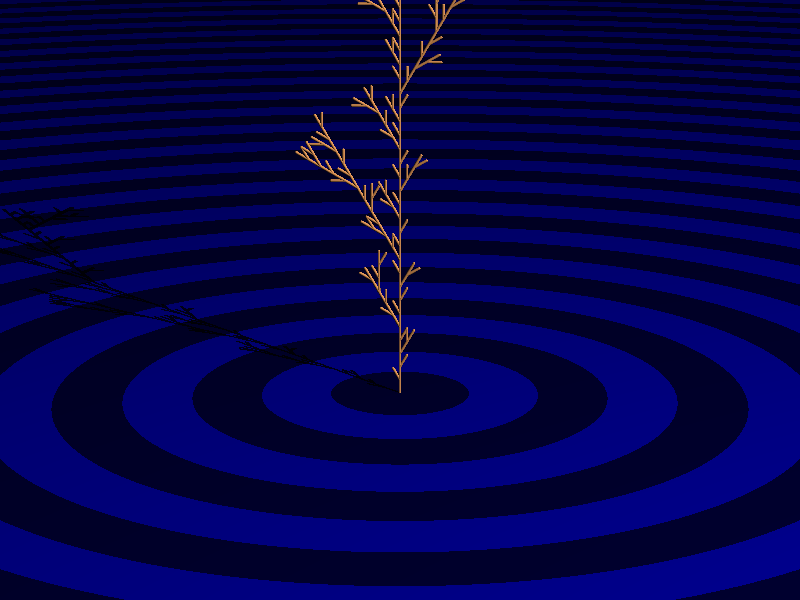
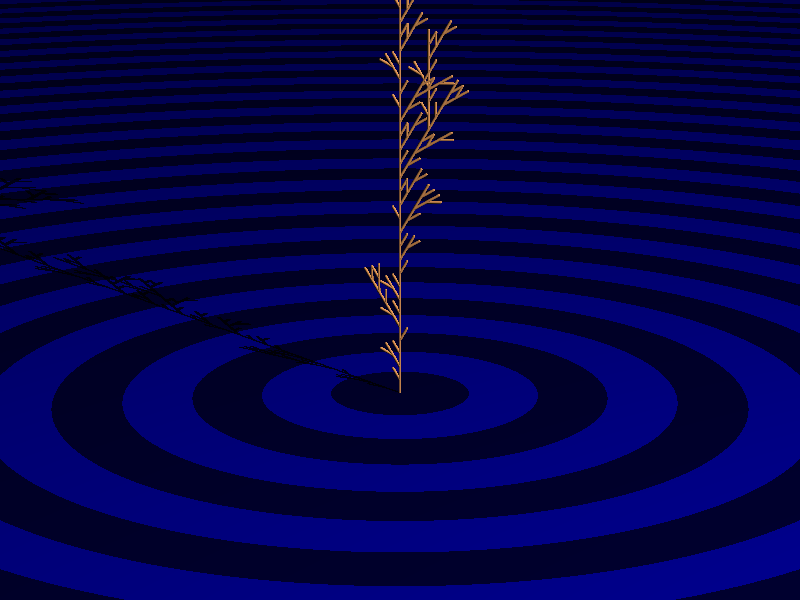
Make stochastic L-systems reproducible, and fix per-context probabilities
Vetting pass over the L-system subsystem.  The engine itself holds up -- a
faithful Algorithmic Beauty of Plants implementation, parallel rewriting,
branching, branch-aware context sensitivity, stochastic rules, a correct 3D
turtle -- so this is two bug fixes and the tests that were owed.

A stochastic L-system given no seed drew from a shared random source and grew
a different tree every render (axial.igl differed by 244 of 255 between runs).
It now falls back to a fixed default seed and draws from a generator private to
each production run: the rewriting is sequential, so nothing shared is needed,
and a shared one carried its position between runs so a second tree, or a
second render of the same one, drew from where the first left off.  This is the
same trap the noise generator was in.  A scene wanting a different tree names a
seed with "with seed N"; it does not get one by accident.  axial.png is
regenerated to its now-fixed output.

Making Produce a pure function of its inputs meant rewriting the stochastic
test, which had been asserting the old behaviour: the same producer asked twice
giving different answers, which was the bug rather than a feature.

Second, the probability bands that lay a rule's stochastic productions across
[0, 1) were keyed by the variable rather than the whole rule.  One variable can
carry several rules told apart by context, each its own set of productions
summing to 1; keying by the variable ran their totals together and made the
[…]

Changed region(s): [[0.375, 0.0, 0.5938, 0.48], [0.0, 0.3, 0.375, 0.6], [0.4688, 0.54, 0.5312, 0.6]]

diff --git a/Tests/TestLSystemProductions.cs b/Tests/TestLSystemProductions.cs
@@ -34,50 +34,88 @@ public class TestLSystemProductions
         Verify(producer, "F", "F+F", "F+F+F+F");
     }
 
-    [TestMethod]
-    public void TestStochasticProductions()
-    {
-        ProductionRuleSpec spec1 = NewRule("A", "C", 0.33);
-        ProductionRuleSpec spec2 = NewRule("A", "C", 0.33);
-        ProductionRuleSpec spec3 = NewRule("A", "D", 0.34);
-        LSystemProducer producer = new LSystemProducer { Axiom = "A", Seed = 7 }
-            .AddRule(spec1)
-            .AddRule(spec2)
-            .AddRule(spec3);
+    private static LSystemProducer CoinFlip(int? seed) =>
+        new LSystemProducer { Axiom = "AAAAAAAA", Seed = seed }
+            .AddRule(NewRule("A", "C", 0.5))
+            .AddRule(NewRule("A", "D", 0.5));
 
-        Verify(producer, "A", "C", "D");
-        Verify(producer, "A", "D", "C");
-        Verify(producer, "A", "C", "D");
+    [TestMethod]
+    public void TestStochasticProductionsAreReproducibleForASeed()
+    {
+        // Building the same stochastic system twice with the same seed grows the same string --
+        // the property a render relies on.  Produce is a pure function of its inputs: it does not
+        // draw from a sequence that advances between calls, so a single producer asked the same
+        // thing twice answers the same both times.  (It used to draw from a shared, advancing
+        // generator, which is what made repeated renders of one tree differ.)
+        for (int generation = 0; generation <= 4; generation++)
+            Assert.AreEqual(CoinFlip(7).Produce(generation), CoinFlip(7).Produce(generation));
+
+        LSystemProducer producer = CoinFlip(7);
+
+        Assert.AreEqual(producer.Produce(3), producer.Produce(3));
+    }
+
+    [TestMethod]
+    public void TestStochasticProductionsVaryWithTheSeed()
+    {
+        // Eight independent coin-flips, so two different seeds should disagree somewhere -- the
+        // choice really is being steered by the seed, not fixed.
+        Assert.AreNotEqual(CoinFlip(1).Produce(1), CoinFlip(2).Produce(1));
+    }
+
+    [TestMethod]
+    public void TestAnUnseededStochasticSystemIsStillReproducible()
+    {
+        // The bug this fixes: with no seed named, the producer drew from a shared random source
+        // and grew a different tree every render.  It falls back to a fixed default seed now, so
+        // two unseeded producers agree -- a scene wanting a different tree names a seed rather
+        // than getting one by chance.
+        Assert.AreEqual(CoinFlip(null).Produce(1), CoinFlip(null).Produce(1));
+    }
+
+    [TestMethod]
+    public void TestStochasticRulesForOneVariableInDifferentContextsEachSumToOne()
+    {
+        // Two stochastic groups for F, told apart by context, each summing to 1 on its own.  The
+        // probability bands are kept per rule, so building this must not run the two totals
+        // together and wrongly complain that F's productions pass 100%.
+        LSystemProducer producer = new LSystemProducer { Axiom = "AFBF", Seed = 1 }
+            .AddRule(NewRule("A<F", "x", 0.5))
+            .AddRule(NewRule("A<F", "y", 0.5))
+            .AddRule(NewRule("B<F", "p", 0.5))
+            .AddRule(NewRule("B<F", "q", 0.5));
+
+        // The F after A resolves within its own group (x or y), the F after B within its (p or q).
+        string result = producer.Produce(1);
+
+        Assert.IsTrue(result is "AxBp" or "AxBq" or "AyBp" or "AyBq", result);
     }
 
     [TestMethod]
     public void TestContextSensitiveProductions()
     {
+        // A plain left-and-right context rule.  With no B before and C after, the A stays put.
         ProductionRuleSpec spec = NewRule("B<A>C", "AA");
-        LSystemProducer producer = new LSystemProducer { Axiom = "A" }
-            .AddRule(spec);
 
-        /*
-        Verify(producer, "A", "A", "A");
+        Verify(new LSystemProducer { Axiom = "A" }.AddRule(spec), "A", "A", "A");
+        Verify(new LSystemProducer { Axiom = "ABC" }.AddRule(spec), "ABC", "ABC", "ABC");
 
-        producer.Axiom = "ABC";
+        // ...but B before and C after, and it doubles.  The A in BAC becomes AA (BAAC); neither of
+        // those two A's then has both a B before and a C after, so it settles there.
+        Verify(new LSystemProducer { Axiom = "BAC" }.AddRule(spec), "BAC", "BAAC", "BAAC");
 
-        Verify(producer, "ABC", "ABC", "ABC");
-
-        producer.Axiom = "BAC";
-
-        Verify(producer, "BAC", "BAAC", "BAAC");
-
-        spec = NewRule("BC<S>G[H]M", "T");
-        producer = new LSystemProducer { Axiom = "ABC[DE][SG[HI[JK]L]MNO]" }
-            .AddRule(spec);
-
-        Verify(producer, 
+        // Context that reaches across a branch: the S is preceded by BC and followed by G, then a
+        // branch [H], then M, and only there does it become T.
+        Verify(new LSystemProducer { Axiom = "ABC[DE][SG[HI[JK]L]MNO]" }
+                .AddRule(NewRule("BC<S>G[H]M", "T")),
             "ABC[DE][SG[HI[JK]L]MNO]",
-            "ABC[DE][TG[HI[JK]L]MNO]", "ABC[DE][TG[HI[JK]L]MNO]");
-        */
+            "ABC[DE][TG[HI[JK]L]MNO]",
+            "ABC[DE][TG[HI[JK]L]MNO]");
 
-        producer = new LSystemProducer
+        // The anabaena catenula example from The Algorithmic Beauty of Plants (figure 1.31), which
+        // needs ignored symbols so the signals pass through the F's and turn markers as if they
+        // were not there.
+        LSystemProducer producer = new LSystemProducer
             {
                 Axiom = "F1F1F1",
                 SymbolsToIgnore = "+-F".AsRunes()

diff --git a/Geometry/LSystems/LSystemProducer.cs b/Geometry/LSystems/LSystemProducer.cs
@@ -1,5 +1,4 @@
 using System.Text;
-using RayTracer.Basics;
 using RayTracer.Extensions;
 
 namespace RayTracer.Geometry.LSystems;
@@ -11,6 +10,14 @@ public class LSystemProducer
 {
     internal static readonly Rune LeftBracket = new ('[');
     internal static readonly Rune RightBracket = new (']');
+
+    /// <summary>
+    /// The seed used when a scene doesn't name one of its own.  It must be a fixed value, not a
+    /// random one: a stochastic L-system given no seed should still grow the same tree every
+    /// render, the way a scene that names nothing random should look the same twice.  A scene
+    /// wanting a different tree changes the seed; it does not get a different one by accident.
+    /// </summary>
+    private const int DefaultSeed = 0;
 
     /// <summary>
     /// This property holds the axiom, or starting point, for the L-system production.
@@ -35,7 +42,7 @@ public class LSystemProducer
     private readonly Dictionary<Rune, ProductionRuleSet> _ruleSets = new ();
 
     private Rune[] _axiom;
-    private ThreadSafeRandom _random;
+    private Random _random;
 
     /// <summary>
     /// This method is used to add a production rule to the L-system.
@@ -69,7 +76,13 @@ public class LSystemProducer
         if (_axiom.IsNullOrEmpty())
             throw new Exception("Axiom is required but was not provided or is of zero length.");
 
-        _random = ThreadSafeRandom.GetGenerator(Seed);
+        // A generator private to this run, rather than a shared cached one keyed by the seed.
+        // The rewriting below is sequential, so nothing here needs a thread-safe generator; and
+        // a shared one would carry its position between runs, so a second L-system on the same
+        // seed -- or a second render of this one in the same process -- would draw from where the
+        // first left off and grow a different tree.  (This is the same trap the noise generator
+        // was caught in; see NoiseGenerator.)
+        _random = new Random(Seed ?? DefaultSeed);
 
         Rune[] runes = _axiom;
 

diff --git a/Geometry/LSystems/ProductionRuleSet.cs b/Geometry/LSystems/ProductionRuleSet.cs
@@ -1,5 +1,4 @@
 using System.Text;
-using RayTracer.Basics;
 using RayTracer.Extensions;
 
 namespace RayTracer.Geometry.LSystems;
@@ -11,7 +10,13 @@ namespace RayTracer.Geometry.LSystems;
 public class ProductionRuleSet
 {
     private readonly List<ProductionRule> _rules = [];
-    private readonly Dictionary<Rune, double> _bands = new ();
+
+    // The running probability total per rule, so a rule's stochastic productions can be laid out
+    // end to end across the [0, 1) interval as they are added.  This has to be keyed by the whole
+    // rule key, not just the variable: one variable may have several rules told apart by context,
+    // each its own independent set of stochastic productions summing to 1 on its own, and keying
+    // by the variable alone would run their totals together and push the later ones past 1.
+    private readonly Dictionary<string, double> _bands = new ();
 
     /// <summary>
     /// This property holds the collection of runes that should be ignored regarding
@@ -28,7 +33,7 @@ public class ProductionRuleSet
         string key = ruleSpec.Key.RemoveAllWhitespace();
         ProductionRule rule = _rules
             .FirstOrDefault(r => r.Key == key);
-        double band = _bands.GetValueOrDefault(ruleSpec.Variable);
+        double band = _bands.GetValueOrDefault(key);
 
         // Our first rule for the key.
         if (rule == null)
@@ -55,7 +60,7 @@ public class ProductionRuleSet
         if (band > 1)
             throw new Exception($"Probabilities for the {ruleSpec.Key} productions are larger than 100%.");
 
-        _bands[ruleSpec.Variable] = band;
+        _bands[key] = band;
     }
 
     /// <summary>
@@ -65,7 +70,7 @@ public class ProductionRuleSet
     /// <param name="index">The index of the current rune in the source.</param>
     /// <param name="random">The random number generator to use, when necessary.</param>
     /// <returns>The appropriate production.</returns>
-    public Rune[] GetProduction(Rune[] source, int index, ThreadSafeRandom random)
+    public Rune[] GetProduction(Rune[] source, int index, Random random)
     {
         ProductionRule rule = _rules.Count switch
         {